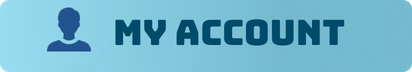
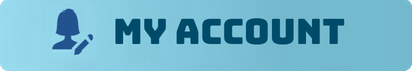
account info edit

diff --git a/R motel/main.py b/R motel/main.py
@@ -1,8 +1,7 @@
 from pathlib import Path
 from tkinter import Tk, Canvas, Entry, Text, Button, PhotoImage
-
 from support import User_actions
-
+from tkinter import *
 OUTPUT_PATH = Path(__file__).parent
 ASSETS_PATH = OUTPUT_PATH / "assets"
 
@@ -293,7 +292,7 @@ class app:
         #buttons
         #account button
         account_button_img= PhotoImage(file=self.relative_to_assets("account_button.png"))
-        account_button = Button(image=account_button_img,borderwidth=0,highlightthickness=0,command=lambda: print("account clicked"),relief="flat")
+        account_button = Button(image=account_button_img,borderwidth=0,highlightthickness=0,command=self.my_account,relief="flat")
         account_button.place(x=264.0,y=274.0,width=248.23699951171875,height=40.0)
         account_button_img.image=account_button_img
 
@@ -345,7 +344,7 @@ class app:
         back_button_img.image=back_button_img
 
         #heading
-        home_img = PhotoImage(file=self.relative_to_assets("my account_head.png"))
+        home_img = PhotoImage(file=self.relative_to_assets("account_info_head.png"))
         home_heading= canvas.create_image(512.0,118.0,image=home_img)
         home_img.image=home_img
 
@@ -376,6 +375,124 @@ class app:
 
         #bottom msg
         msg=canvas.create_text(231.0,476.0,anchor="nw",text="TO change account info and password vist My account",fill="#004B6A",font=("Bungee Regular", 15 * -1))
+
+    def my_account(self):
+        self.clear_screen() 
+        self.background=canvas= Canvas(self.window,bg ="white",height = 600,width = 900,bd = 0,highlightthickness = 0,relief = "ridge") #intial white background
+        canvas.place(x = 0, y = 0) #basic setup
+
+        #logical function
+        user = User_actions()
+        result=user.account_info_fetch(self.user_email)
+        fname=result[0][0]
+        lname=result[0][1]
+        mob_no=result[0][2]
+        email=result[0][3]
+
+        #left pannels 
+        left_home_img= PhotoImage(file=self.relative_to_assets("account_l_panel.png"))
+        left_home=canvas.create_image(92.0,305.0,image=left_home_img)
+        left_home_img.image=left_home_img
+
+        #back button
+        back_button_img= PhotoImage(file=self.relative_to_assets("back_button.png"))
+        back_button= Button(image=back_button_img,borderwidth=0,highlightthickness=0,command=self.home,relief="flat")
+        back_button.place(x=209.0,y=18.0,width=45.0,height=48.0)
+        back_button_img.image=back_button_img
+
+        #heading
+        home_img = PhotoImage(file=self.relative_to_assets("my account_head.png"))
+        home_heading= canvas.create_image(512.0,118.0,image=home_img)
+        home_img.image=home_img
+
+        #fname
+        fname_label = canvas.create_text(239.0, 190.0, anchor="nw", text="First Name :", fill="#004B6A", font=("Bungee Regular", 20 * -1))
+        fname_img = PhotoImage(file=self.relative_to_assets("my_acc_entry_img.png"))
+        fname_back = canvas.create_image(558.5, 214.0, image=fname_img)
+        self.fname = Entry(bd=0, bg="#D9D9D9", fg="#000716", highlightthickness=0,font=(11))
+        self.fname.place(x=410.0, y=200.0, width=297.0, height=26.0)
+        fname_img.image = fname_img
+        self.fname.insert(0, fname) 
+
+        #lname
+        lname_label = canvas.create_text(239.0, 235.0, anchor="nw", text="Last Name :", fill="#004B6A", font=("Bungee Regular", 20 * -1))
+        lname_img = PhotoImage(file=self.relative_to_assets("my_acc_entry_img.png"))
+        lname_back = canvas.create_image(558.5, 261.0, image=lname_img)
+        self.lname = Entry(bd=0, bg="#D9D9D9", fg="#000716", highlightthickness=0,font=(11))
+        self.lname.place(x=410.0, y=247.0, width=297.0, height=26.0)
+        lname_img.image = lname_img
+        self.lname.insert(0, lname) 
+
+        #mobile no
+        mobile=canvas.create_text(239.0,285.0,anchor="nw",text="Mobile No :",fill="#004B6A",font=("Bungee Regular", 20 * -1))
+        mobile_img=entry_1= PhotoImage(file=self.relative_to_assets("my_acc_entry_img.png"))
+        mobile_back= canvas.create_image(558.5,309.0,image=lname_img)
+        self.mobile= Entry(bd=0,bg="#D9D9D9",fg="#000716",highlightthickness=0,font=(11))
+        self.mobile.place(x=410.0,y=295.0,width=297.0,height=26.0)
+        mobile_img.image=mobile_img
+        self.mobile.insert(0,mob_no)
+
+        #password help msg
+        help_msg=canvas.create_text(337.0,331.0,anchor="nw",text="Leave Password Blank to keep old password",fill="#004B6A",font=("Bungee Regular", 15 * -1))
+
+        #password1
+        password1=canvas.create_text(239.0,368.0,anchor="nw",text="Password:",fill="#004B6A",font=("Bungee Regular", 20 * -1))
+        password1_img=entry_1= PhotoImage(file=self.relative_to_assets("my_acc_entry_img.png"))
+        password1_back= canvas.create_image(558.5,392.0,image=password1_img)
+        self.password1= Entry(bd=0,bg="#D9D9D9",fg="#000716",highlightthickness=0,font=(11),show="*")
+        self.password1.place(x=410.0,y=378.0,width=297.0,height=26.0)
+        password1_img.image=password1_img
+
+        #password2
+        password2=canvas.create_text(239.0,410.0,anchor="nw",text="RE PASSWORD:",fill="#004B6A",font=("Bungee Regular", 20 * -1))
+        password2_img=entry_1= PhotoImage(file=self.relative_to_assets("my_acc_entry_img.png"))
+        password2_back= canvas.create_image(558.5,434.0,image=password2_img)
+        self.password2= Entry(bd=0,bg="#D9D9D9",fg="#000716",highlightthickness=0,font=(11),show="*")
+        self.password2.place(x=410.0,y=420.0,width=297.0,height=26.0)
+        password2_img.image=password2_img
+
+        #msg
+        self.my_acc_msg=canvas.create_text(239.0,461.0,anchor="nw",text="TO change account info and password please fill above",fill="#004B6A",font=("Bungee Regular", 15 * -1))
+
+        #submit button
+        sub_img = PhotoImage(file=self.relative_to_assets("my_acc_sub.png"))
+        submit_button = Button(image=sub_img,borderwidth=0,highlightthickness=0,command=self.account_updation,relief="flat")
+        submit_button.place(x=239.0,y=503.0,width=586.0,height=40.0)
+        sub_img.image=sub_img
+
+    #updating info without entring password
+    def account_updation_without_pass(self):
+        user = User_actions()
+        email=self.user_email
+        fname=self.fname.get()
+        lname=self.lname.get()
+        mobile=self.mobile.get()
+        result=user.user_account_update(email,fname,lname,mobile)
+        if not result:
+                self.background.itemconfig(self.my_acc_msg, text="ERROR IN UPDATING USER INFO", fill="red")
+        else:
+            self.background.itemconfig(self.my_acc_msg, text="User information updated", fill="green")
+
+    #updating user info with password and other info
+    def account_updation(self):
+        user = User_actions()
+        email=self.user_email
+        passwd1=self.password1.get()
+        passwd2=self.password2.get()
+        if not passwd1 or not passwd2:
+            self.account_updation_without_pass()    
+        else:
+            if passwd1==passwd2:
+                result=user.user_account_password_update(email,passwd1)
+                self.account_updation_without_pass() 
+                if result:
+                    self.background.itemconfig(self.my_acc_msg, text="User information updated", fill="green")
+                    self.password1.delete(0,END)
+                    self.password2.delete(0,END)
+                else:
+                    self.background.itemconfig(self.my_acc_msg, text="ERROR IN UPDATING USER PASSWORD", fill="red")
+            else:
+                self.background.itemconfig(self.my_acc_msg, text="Password and re password must match", fill="red")
 
 
 

diff --git a/R motel/support.py b/R motel/support.py
@@ -75,7 +75,7 @@ class User_actions:
         result=cursor.fetchall()
         return result
 
-#fetching user total spends on room booking        
+    #fetching user total spends on room booking        
     def user_spends(self,email):
         #room booking total 
         cursor.execute('select price from bookings where email=%s',(email,))   
@@ -86,3 +86,28 @@ class User_actions:
                 total_room_price+=int(j)
         #food total
         return total_room_price   
+    
+    #user account info fetching
+    def account_info_fetch(self,email):
+        cursor.execute('select fname,lname,mobile,email from users where email=%s',(email,))
+        result=cursor.fetchall()
+        return result
+    
+    #updating user account info without password
+    def user_account_update(self,email,fname,lname,mobile):
+        try:
+            cursor.execute('UPDATE users SET fname=%s, lname=%s, mobile=%s WHERE email=%s', (fname, lname, mobile, email))
+            my_sql.commit()
+            return True
+        except:
+            return False
+        
+    #updating user account password
+    def user_account_password_update(self,email,passwd):
+        try:
+            cursor.execute('UPDATE users SET password=%s where email=%s', (passwd, email,))
+            my_sql.commit()
+            return True
+        except:
+            return False
+    
